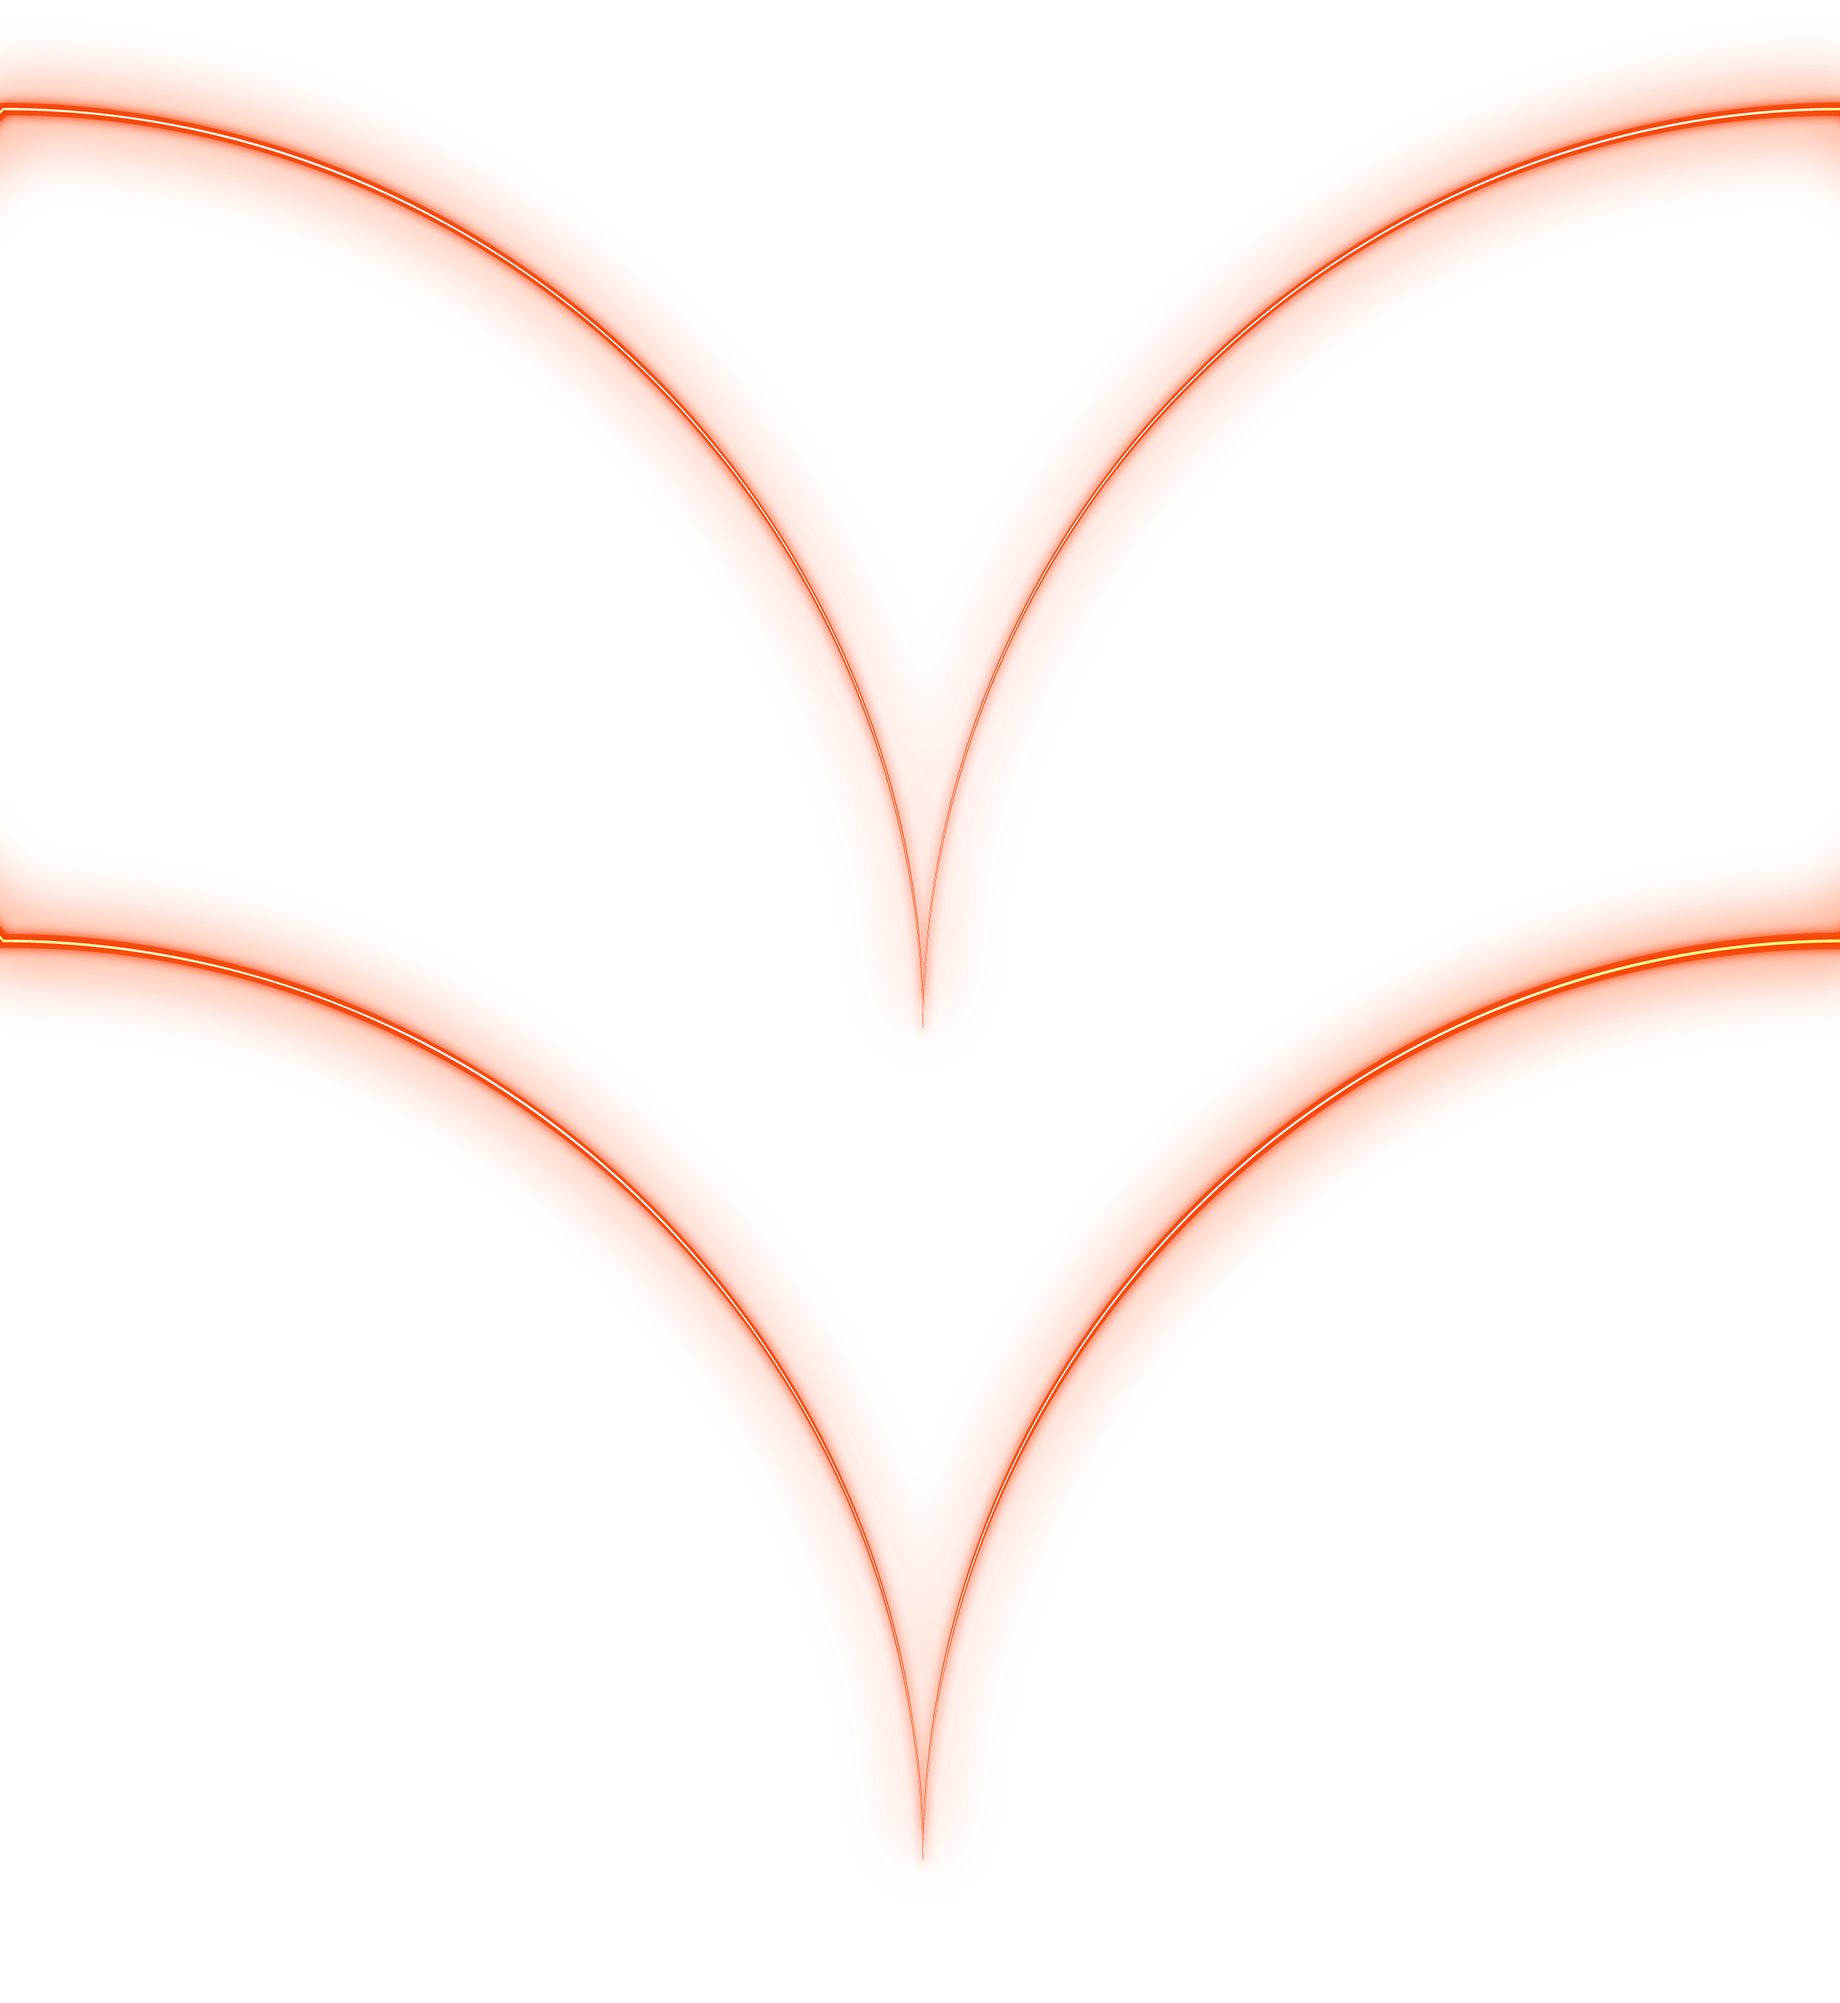
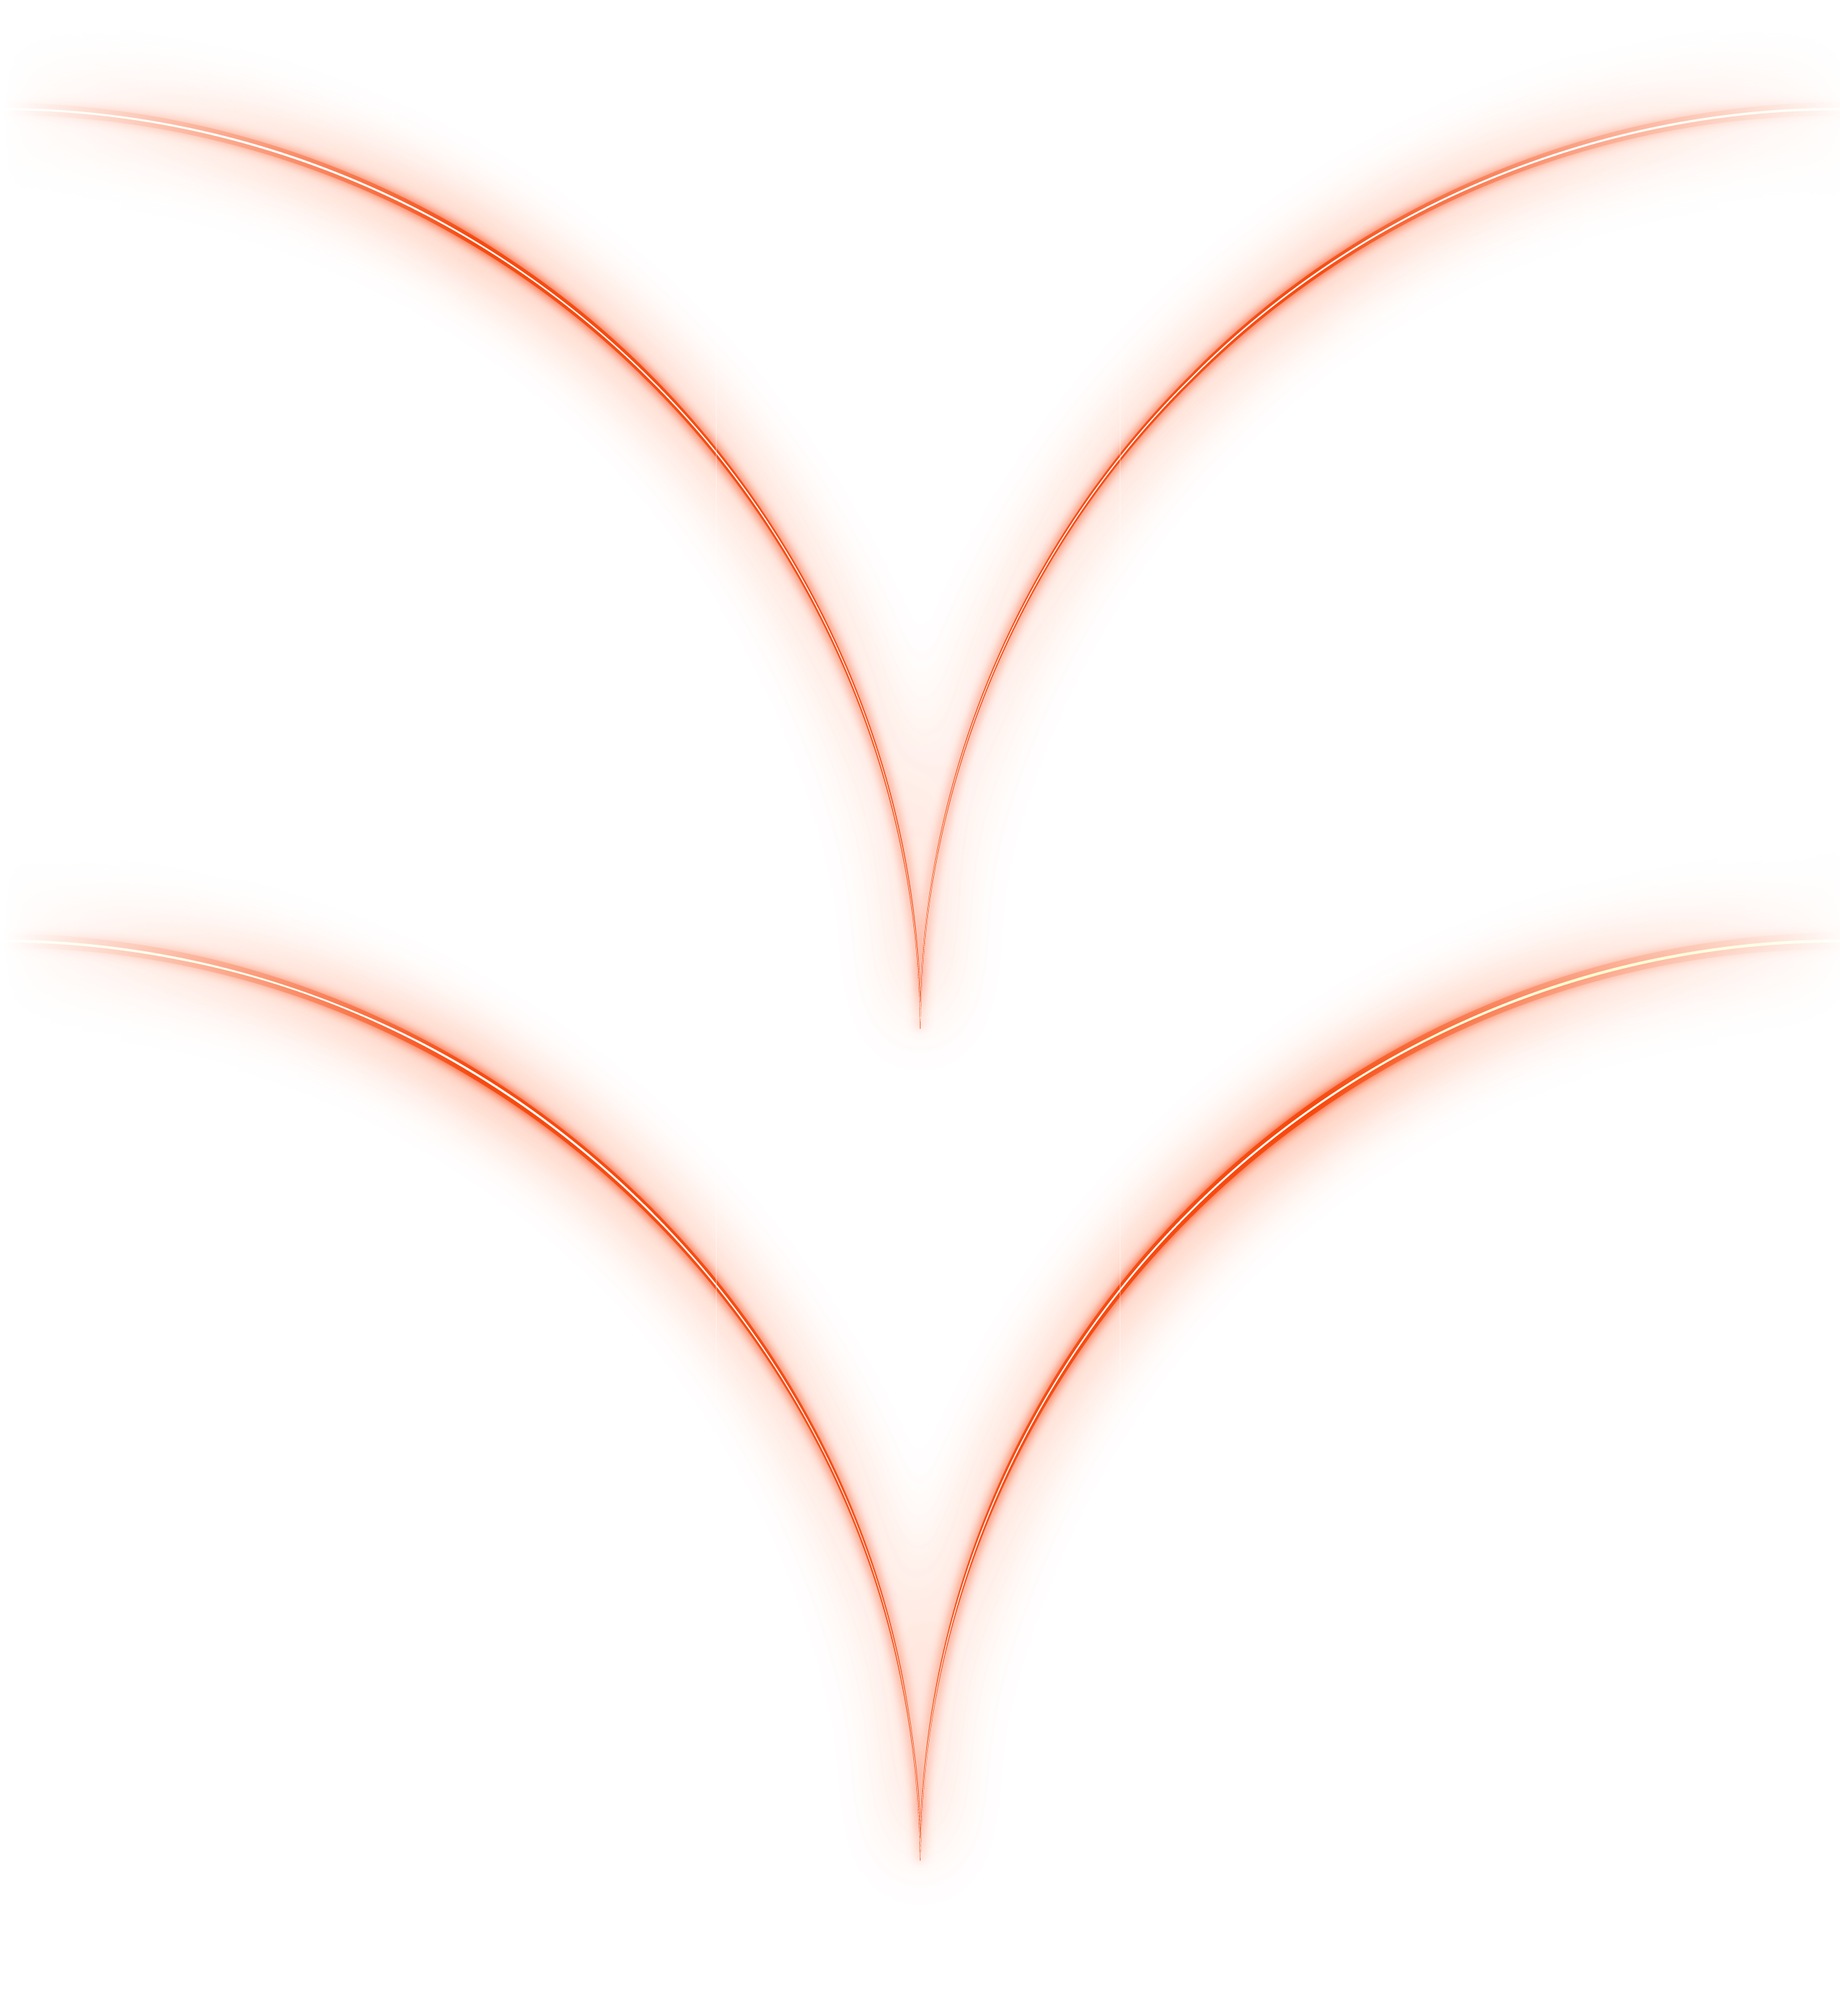
ds

diff --git a/test.html b/test.html
@@ -29,8 +29,9 @@
   </header>
 
   
-  
-  <section id="hero" class="h-screen flex justify-center pb-8 items-center min-h-screen">
+  <!--
+
+    <section id="hero" class="h-screen flex justify-center pb-8 items-center min-h-screen">
     <div class="absolute animate-fade-in max-w-screen" style="z-index: -1;">
       <div class=" max-w-screen bg-cover scale-100 lg:scale-125 transform-gpu flex max-w-screen">
         <img src="./images/gradient-elements/line.png" id="my-element-2" class="animate-pulse" style="animation-duration:5s;">
@@ -42,7 +43,24 @@
       <span class="absolute bottom-0 left-0 right-0 h-1 bg-yellow-500 block m-auto animate-fade-in" style="width: 40px; animation-delay: 0.5s; animation-duration: 1s;"></span>
     </div>
   </section>
+   -->
   
+  
+
+  <section id="hero" class="h-screen flex justify-center pb-8 items-center min-h-screen overflow-x-hidden">
+    <div class="absolute animate-fade-in max-w-screen" style="z-index: -1;">
+      <div class="max-w-screen bg-cover scale-100 lg:scale-125 flex">
+        <img src="./images/gradient-elements/line.png" id="my-element-2" class="animate-pulse" style="animation-duration:5s;">
+      </div>
+    </div>
+    <div class="text-center relative">
+      <h1 class="text-white text-5xl sm:text-6xl font-extrabold leading-15 uppercase mb-4 animate-fade-in mx-auto px-4 max-w-screen-sm lg:max-w-screen-md" style="animation-delay: 0.2s;">Building your inspiring brand</h1>
+      <h1 class="text-white text-base font-light uppercase mb-4 animate-fade-in px-6 max-w-screen-sm mx-auto" style="animation-delay:0.2s; animation-duration:1s;">It's the perception of your business held by your audience</h1>
+      <span class="absolute bottom-0 left-0 right-0 h-1 bg-yellow-500 block m-auto animate-fade-in" style="width: 40px; animation-delay: 0.5s; animation-duration: 1s;"></span>
+    </div>
+  </section>
+  
+
   
   <div id="clients" class="animate-fade-in py-0 items-center mb-11 z-10 glass max-w-screen-lg mx-auto rounded-lg " style="border: 1px solid rgba(255, 255, 255, 0.082); background-color: rgba(255, 255, 255, 0.041);margin-top: -6.2rem; animation-delay:1.2s; animation-duration:1s;">
     <div class="container mx-auto text-center text-white pt-8">

diff --git a/style-v2.css b/style-v2.css
@@ -1,3 +1,6 @@
+ @import url('https://fonts.cdnfonts.com/css/sf-pro-display');
+
+                
 
 .animate-fade-in {
     opacity: 0;
